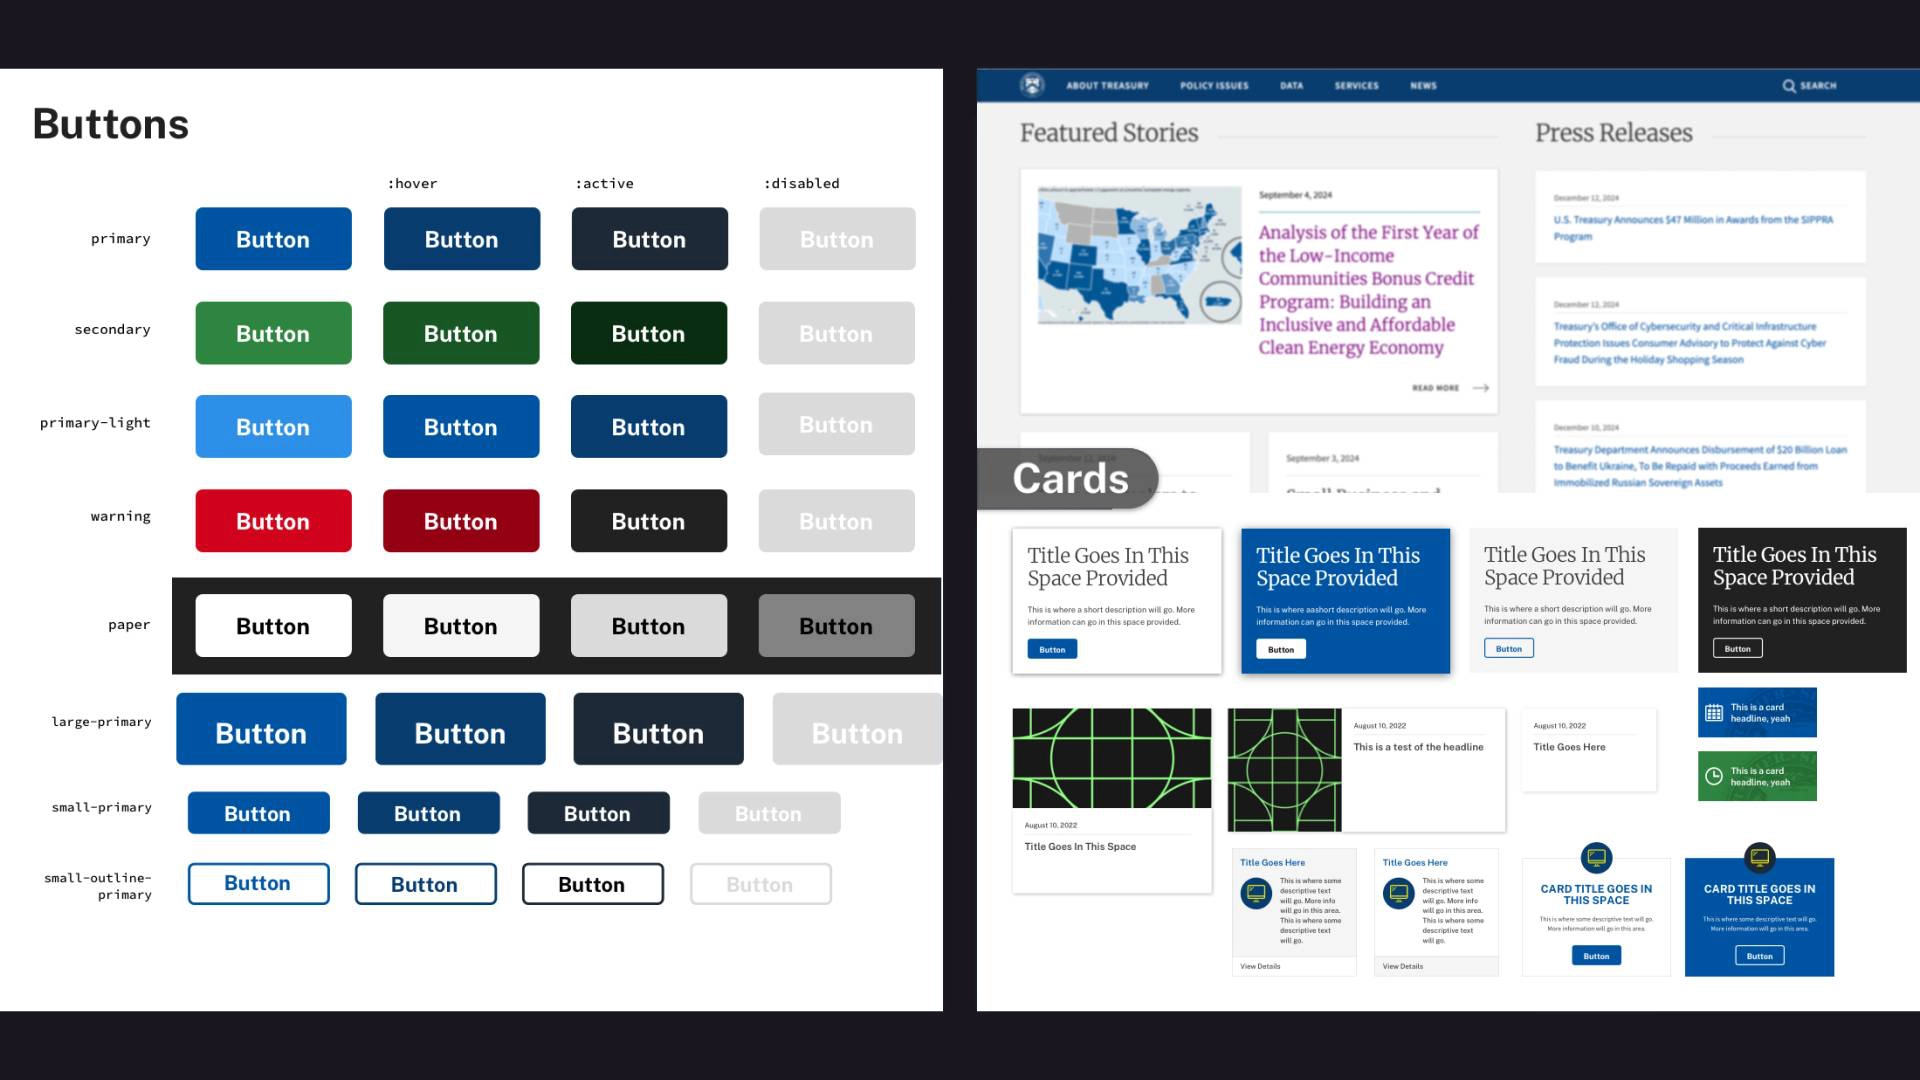
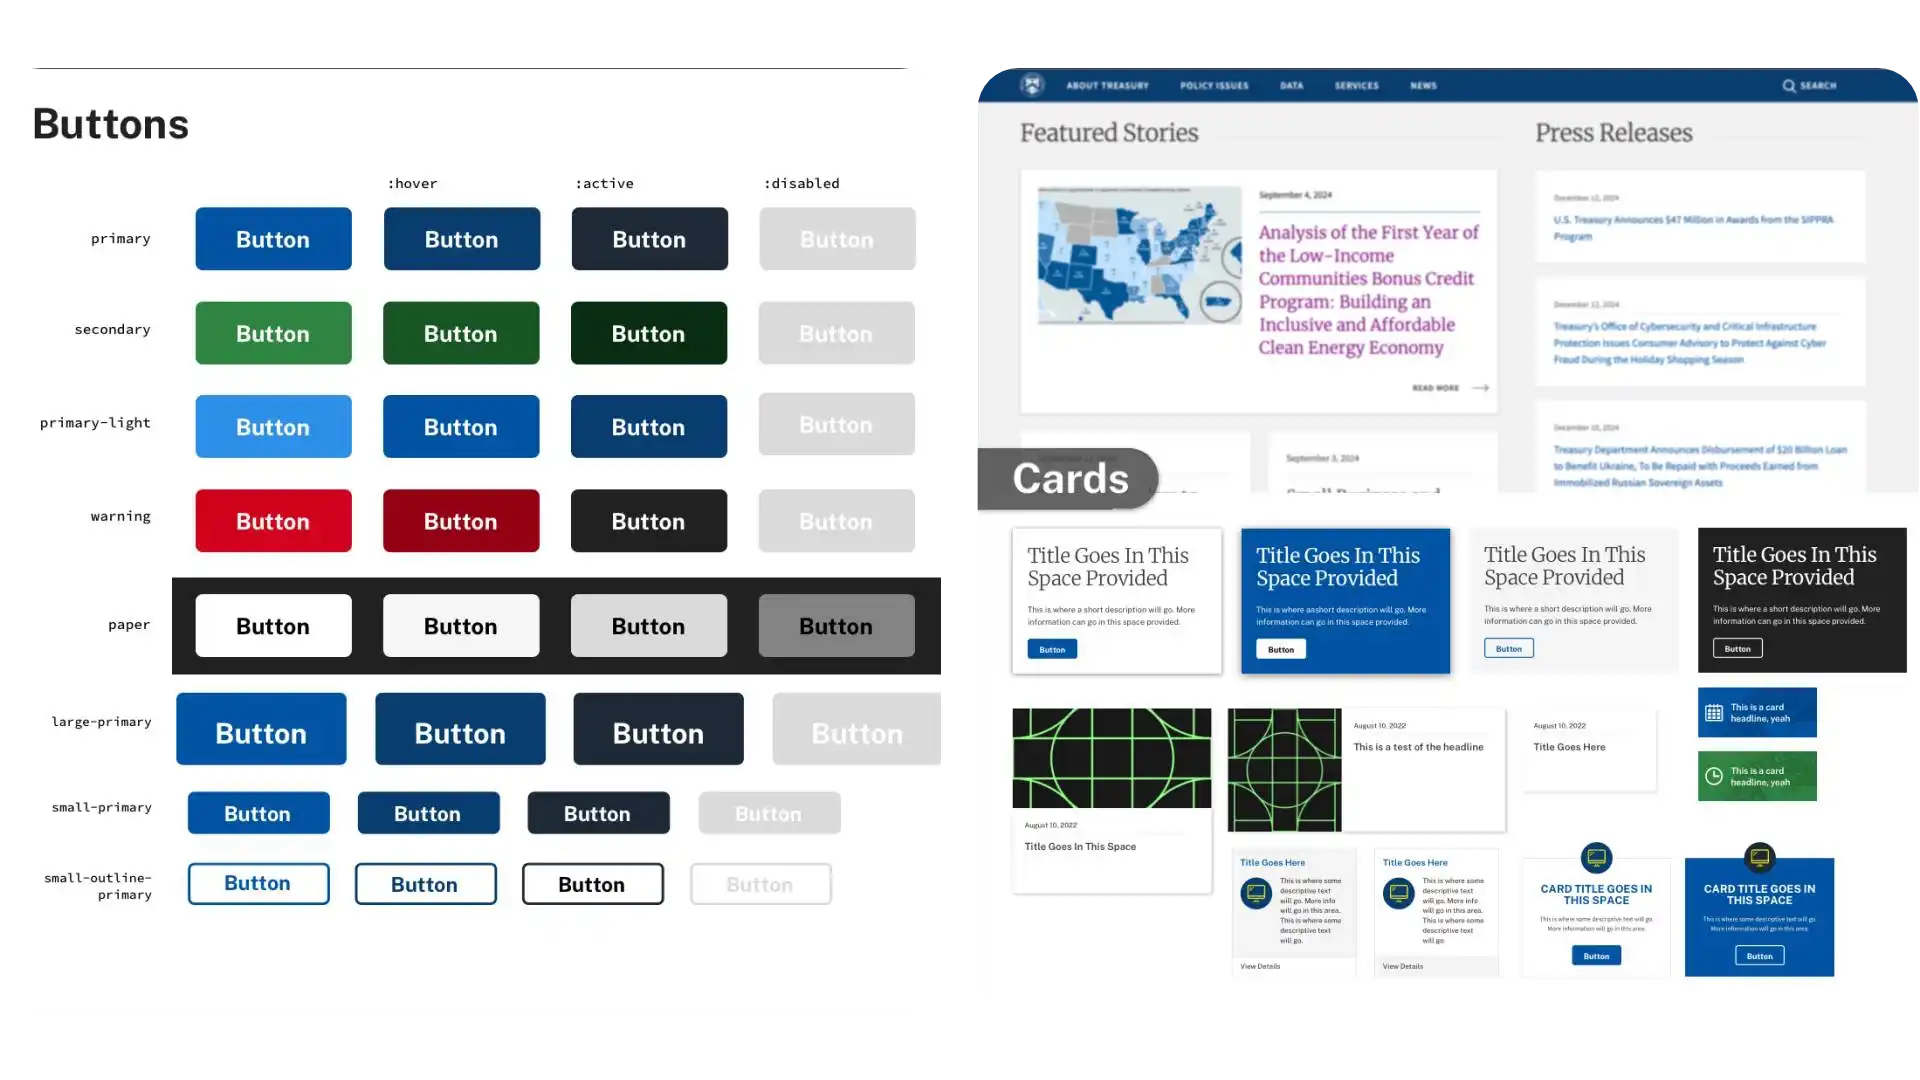
fix styling inconsistencies

Changed region(s): [[0.0, 0.0, 1.0, 1.0]]

diff --git a/css/style.css b/css/style.css
@@ -472,7 +472,7 @@ li > a:hover {
   font-size: 1.1rem;
   margin: 0 auto;
   padding-top: clamp(2rem, 10vw, 4rem);
-  width: 90%;
+  width: 95%;
   max-width: 900px;
 }
 .container h1 {
@@ -497,7 +497,7 @@ li > a:hover {
 
 .container p {
   padding: 0 1rem;
-  margin-bottom: 2rem;
+  margin-bottom: 1.5rem;
 }
 
 .container > p > a {
@@ -517,7 +517,7 @@ figure {
   text-decoration: underline;
 }
 .youtube {
-  width: clamp(300px, 100vw, 1200px);
+  width: clamp(300px, 100vw, 900px);
   aspect-ratio: 16/9;
   iframe {
     width: 100%;
@@ -573,7 +573,7 @@ figure {
 
 .demo-component {
   background: white;
-  padding: 2rem;
+  padding: 1.5rem;
   border-radius: 8px;
   display: flex;
   flex-direction: column;
@@ -584,7 +584,7 @@ figure {
 .demo-docs {
   color: var(--ink);
   background: var(--card-bg);
-  padding: 2rem;
+  padding: 1.5rem;
   border-radius: 12px;
 }
 
@@ -600,7 +600,7 @@ figure {
 }
 
 .demo-docs li {
-  margin-bottom: 1rem !important;
+  margin-bottom: 2rem !important;
   font-size: 1rem;
   line-height: 1.6;
 }
@@ -699,7 +699,7 @@ figure {
 
 .metric-card {
   background: var(--card-bg);
-  padding: 3rem 2rem;
+  padding: 2rem 1rem;
   border-radius: 16px;
   border: 1px solid var(--border-color);
   text-align: center;
@@ -741,7 +741,7 @@ figure {
   }
   
   .metric-card {
-    padding: 2.5rem 1.5rem;
+    padding: 1.5rem 2rem;
   }
 }
 

diff --git a/tdds.html b/tdds.html
@@ -41,11 +41,12 @@
                 <img alt="Cover and Headings pages of the Treasury Design System." src="images/projects/treasury/TDDS-Components1.webp" class="project__image">
             </figure>
             <figure>
-                <img alt="Buttons and Cards pages of the Treasury Design System." src="images/projects/treasury/TDDS-Components2.webp" class="project__image">
-            </figure>
-            <figure>
                 <img alt="a screenshot of the Treasury design system documentation outlining how to use brand colors." src="images/projects/treasury/design-system.webp" class="project__image">
             </figure>
+            <figure>
+                <img alt="Buttons and Cards pages of the Treasury Design System." src="images/projects/treasury/TDDS-Components2.webp" class="project__image">
+            </figure>
+
             <figure>
                 <img alt="a screenshot of the Treasury design system documentation outlining how to use form controls alongside the bep.gov home page." src="images/projects/treasury/form-controls.webp" class="project__image">
             </figure>
@@ -53,7 +54,7 @@
                 <section id="demo-area" class="demo-section">
                     <h2>Recyclable Components</h2>
             <div class="component-switcher">
-                <label for="component-select">Select a component to preview:</label>
+                <label for="component-select">Select component:</label>
                 <select id="component-select">
                     <option value="accordion">Accordion</option>
                     <option value="button">Button</option>

diff --git a/bridges-to-science.html b/bridges-to-science.html
@@ -46,22 +46,22 @@
                 <div class="metrics-grid">
                     <div class="metric-card">
                         <span class="metric-value">More</span>
-                        <span class="metric-label">site visitors and student sign-ups</span>
+                        <span class="metric-label">student sign-ups</span>
                     </div>
                     <div class="metric-card">
                         <span class="metric-value">Better</span>
-                        <span class="metric-label">branding and professional presence</span>
+                        <span class="metric-label">professional presence</span>
                     </div>
                     <div class="metric-card">
                         <span class="metric-value">Easier</span>
-                        <span class="metric-label">content update process</span>
+                        <span class="metric-label">content updates</span>
                     </div>
                 </div>
 </section>  
 <section id="cta">
     <div class="cta-container">
         <h3 class="section-title">Ready to level up your product experience?</h3>
-        <p>I'm open to collaborating with cool, creative people.</p>
+        <p>I'm open to collab with cool, creative people.</p>
       <a href="mailto:[email redacted]?subject=hey%20whats%20up" class="cta-button">Let's work together</a>
     </div>
 </section>

diff --git a/index.html b/index.html
@@ -7,7 +7,7 @@
                     Nick Leake: Web Designer (Product, UX, UI, Illustration)
                 </title>
                 <meta content="Nick Leake is a web designer helping people build beautiful, accessible software. He specializes in prototyping and illustration, with a dash of coding and copywriting. Contact him today for a free creative consultation. This website lists Nick's projects and includes links to his social media accounts." name="description">
-                <style>.banner{display:flex;flex-wrap:wrap;justify-content:center;align-items:center;background-color:var(--primary);background-image:var(--gradient);background-size:400% 400%;font-size:1.25rem;}.heroimg{height:420px;filter:contrast(1.2)}.banner__intro{max-width:500px;color:#f2efef}.banner__intro>h1{font-size:clamp(42px,13vw,76px);letter-spacing:.02em;text-transform:uppercase;margin-bottom:.5rem}.banner__intro>p{padding-bottom:2rem}@media (max-width:900px){.heroimg{height:350px;aspect-ratio:1/1}.banner{padding:.5rem 0}}@media (max-width:750px){.banner{font-size:1.2rem;flex-direction:column-reverse}.banner__intro{max-width:85%}.banner__intro>h1{letter-spacing:0;margin-top:.5rem}}@media (max-width:700px){.nav__logo{font-size:1.5rem}}</style>
+                <style>.banner{display:flex;flex-wrap:wrap;justify-content:center;align-items:center;background-color:var(--primary);background-image:var(--gradient);background-size:400% 400%;font-size:1.25rem;}.heroimg{height:540px;filter:contrast(1.2)}.banner__intro{max-width:500px;color:#f2efef}.banner__intro>h1{font-size:clamp(42px,13vw,76px);letter-spacing:.02em;text-transform:uppercase;margin-bottom:.5rem}.banner__intro>p{padding-bottom:2rem}@media (max-width:900px){.heroimg{height:350px;aspect-ratio:1/1}.banner{padding:.5rem 0}}@media (max-width:750px){.banner{font-size:1.2rem;flex-direction:column-reverse}.banner__intro{max-width:90%}.banner__intro>h1{letter-spacing:0;margin-top:.5rem}}@media (max-width:700px){.nav__logo{font-size:1.5rem}}</style>
                 <link href="css/style.css" rel="stylesheet">
                 <link href="favicon.ico" rel="shortcut icon" type="image/x-icon">
     </head>
@@ -25,7 +25,7 @@
                 <h1>Radical design, better results.</h1>
                 <p>
                     <a href="about-me.html"style="text-decoration: underline;
-  color: var(--secondary);">Nick Leake</a> is a web designer based in Baltimore. He helps clients craft killer solutions to tough problems using type, illustration, and code. Check out his work below or <a href="mailto:[email redacted]" style="text-decoration: underline; color: var(--secondary);">contact</a> him for a free creative consultation.
+  color: var(--secondary);">Nick Leake</a> is a web designer based in Baltimore. He crafts killer solutions to tough problems using type, illustration, and code. Check out his work below or <a href="mailto:[email redacted]" style="text-decoration: underline; color: var(--secondary);">contact</a> him for a free consultation.
                 </p>
             </div>
             <div class="hero-image-container">

diff --git a/uscis.html b/uscis.html
@@ -56,7 +56,7 @@
     
     <p>Our new system automated data entry where possible. We built APIs to automate security check submissions as well. The new system aggregated check results from over eight different law enforcement databases. It also sped up check responses from a matter of days to a matter of minutes.</p>
     <figure role="img" aria-label="Security check processing time comparison: 5 days down to 15 minutes" style="font-size: 1rem; margin-bottom: 2rem;">
-    <p style="margin-bottom: 0; white-space: nowrap; font-family: monospace; font-size: clamp(10px, 3vw, 16px);">CHECK RESULTS: DAYS → MINUTES
+    <p style="margin-bottom: 0; white-space: nowrap; font-family: monospace; font-size: clamp(10px, 3vw, 24px);">CHECK RESULTS: DAYS → MINUTES
     <br>
     [ ░░░░░░░░░░░░░░░░░░░░ ] 5 Days
     <br>